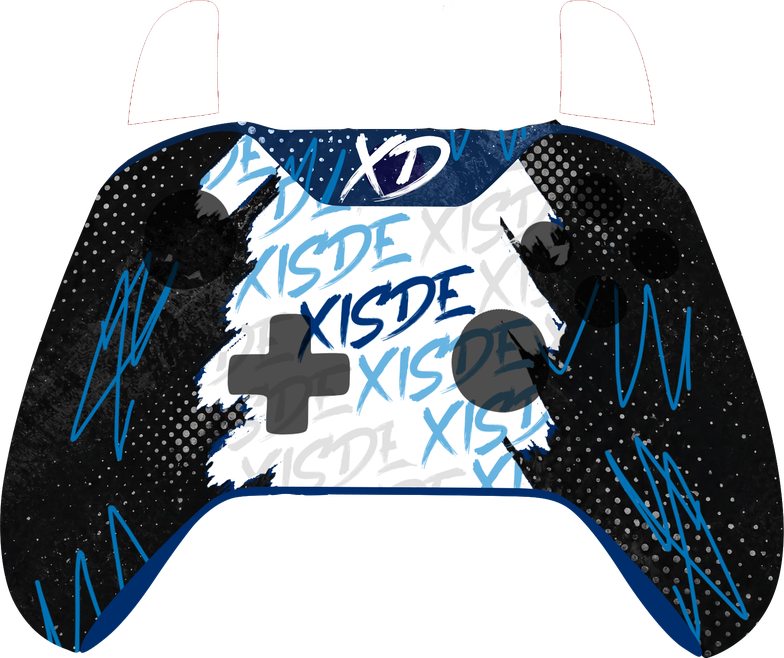
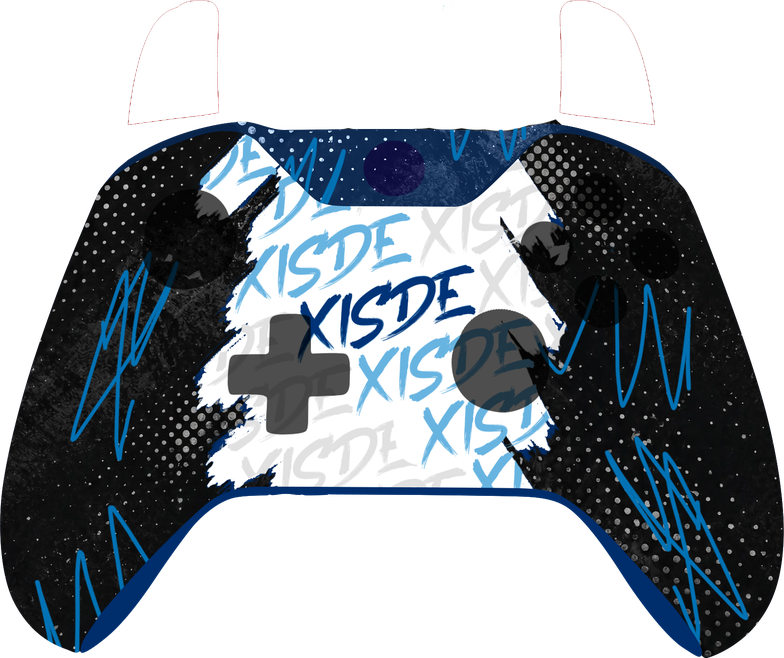
Restore localized XD glow and analog trigger response

Changed region(s): [[0.4286, 0.1824, 0.5816, 0.304]]

diff --git a/gamepadviewer.css b/gamepadviewer.css
@@ -76,7 +76,6 @@ body,
 }
 
 .custom .trigger.pressed {
-  opacity: 1;
   filter: brightness(1.08) drop-shadow(0 0 7px rgba(0, 174, 243, 0.7));
 }
 
@@ -113,23 +112,18 @@ body,
   filter: brightness(1.25) drop-shadow(0 0 7px rgba(0, 174, 243, 0.58));
 }
 
-/* The XD emblem is part of the PSD base; only add a restrained player glow. */
+/* XD lettering is separated from the base so its glow follows the exact PSD strokes. */
 .custom .quadrant {
   position: absolute;
   z-index: 14;
-  top: 139px;
-  left: 361px;
-  width: 64px;
-  height: 64px;
-  border-radius: 50%;
-  background: transparent;
-}
-
-.custom .quadrant.p0,
-.custom .quadrant.p1,
-.custom .quadrant.p2,
-.custom .quadrant.p3 {
-  box-shadow: 0 0 10px rgba(255, 255, 255, 0.22), 0 0 19px rgba(0, 174, 243, 0.3);
+  top: 132.91px;
+  left: 338.74px;
+  width: 111.8px;
+  height: 70.5px;
+  border-radius: 0;
+  background: transparent url("./assets/v2-xd.png") 0 0 / 100% 100% no-repeat;
+  filter: drop-shadow(0 0 3px rgba(255, 255, 255, 0.68)) drop-shadow(0 0 10px rgba(0, 174, 243, 0.62));
+  pointer-events: none;
 }
 
 /* View / Menu inputs, retained as small controls in the center of the face. */

diff --git a/index.html b/index.html
@@ -4,7 +4,7 @@
   <meta charset="utf-8">
   <meta name="viewport" content="width=device-width, initial-scale=1">
   <title>Prévia — Webpixum Gamepad Viewer</title>
-  <link rel="stylesheet" href="./gamepadviewer.css?v=updated-psd-20260927b">
+  <link rel="stylesheet" href="./gamepadviewer.css?v=updated-psd-20260927c">
   <style>
     html, body { min-height: 100%; overflow: auto; }
     body { margin: 0; display: grid; place-items: center; background: #087bb7 !important; font-family: system-ui, sans-serif; color: white; }
